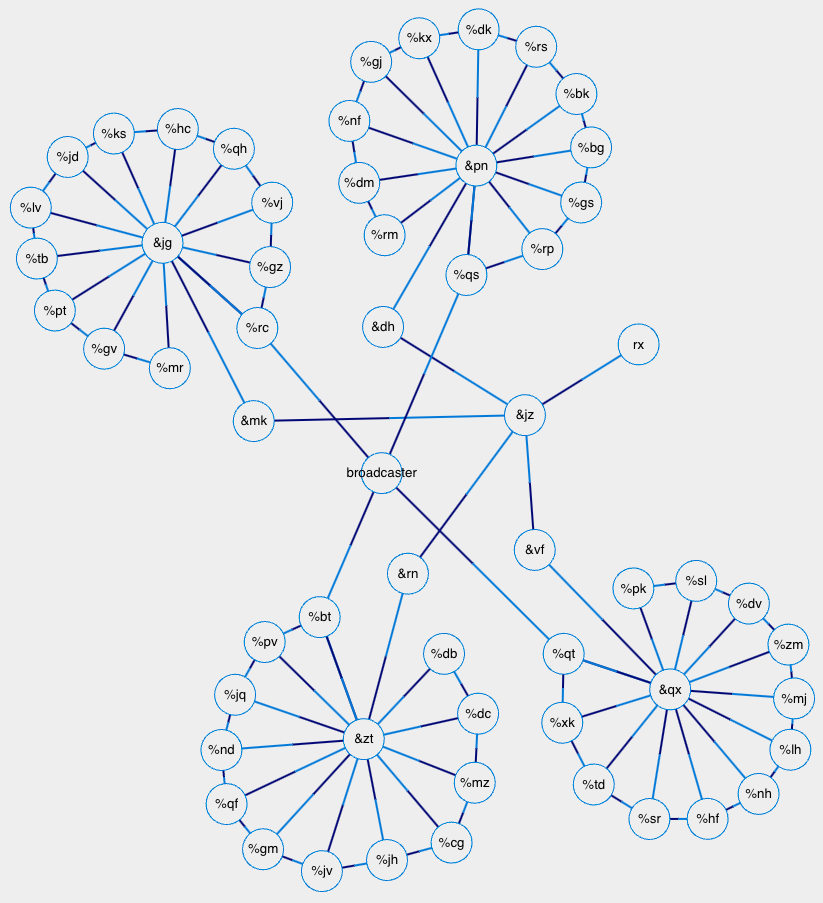
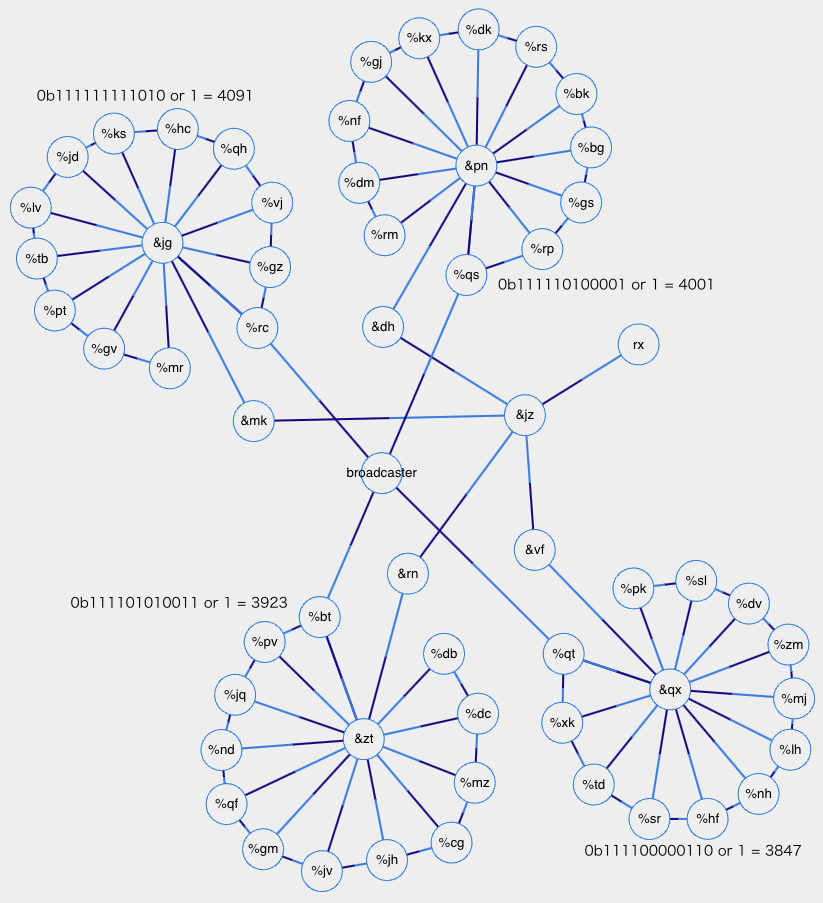
Day 20 part 2

diff --git a/2023/src/day20.rs b/2023/src/day20.rs
@@ -22,6 +22,14 @@ type NodeList = ArrayVec<Node, MAX_NODES>;
 type HashMap<K, V> =
     std::collections::HashMap<K, V, core::hash::BuildHasherDefault<ahash::AHasher>>;
 
+struct Machine {
+    lo_sent: u64,
+    hi_sent: u64,
+    broadcaster_idx: u8,
+    pulses: VecDeque<(u8, u8, bool)>,
+    nodes: NodeList,
+}
+
 pub fn parts_1_and_2(lines: &[&str], out: &mut String) {
     let mut node_idx_by_name = HashMap::with_capacity_and_hasher(
         lines.len(),
@@ -80,24 +88,44 @@ pub fn parts_1_and_2(lines: &[&str], out: &mut String) {
         }
     }
 
-    let mut lo_sent = 0_u64;
-    let mut hi_sent = 0_u64;
-    let mut pulses = VecDeque::new();
+    let mut machine = Machine::new(nodes, broadcaster_idx);
 
     for _ in 0..1000 {
-        pulses.clear();
-        pulses.push_back((0, broadcaster_idx, false));
+        machine.poke();
+    }
+    let result_0 = machine.lo_sent * machine.hi_sent;
 
-        while let Some((source_idx, idx, hi)) = pulses.pop_front() {
+    // Counter periods read from data/day20-graph.png
+    // Graph generated using day20-graph.html
+    let result_1 = lcm(3847, lcm(3923, lcm(4091, 4001)));
+
+    write!(out, "{}  {}", result_0, result_1).unwrap();
+}
+
+impl Machine {
+    fn new(nodes: NodeList, broadcaster_idx: u8) -> Self {
+        Self {
+            lo_sent: 0,
+            hi_sent: 0,
+            pulses: VecDeque::new(),
+            nodes,
+            broadcaster_idx,
+        }
+    }
+
+    fn poke(&mut self) {
+        self.pulses.push_back((0, self.broadcaster_idx, false));
+
+        while let Some((source_idx, idx, hi)) = self.pulses.pop_front() {
             if hi {
-                hi_sent += 1;
+                self.hi_sent += 1;
             } else {
-                lo_sent += 1;
+                self.lo_sent += 1;
             }
-            if idx as usize >= nodes.len() {
+            if idx as usize >= self.nodes.len() {
                 continue;
             }
-            let node = &mut nodes[idx as usize];
+            let node = &mut self.nodes[idx as usize];
 
             let mut ignore = false;
 
@@ -123,13 +151,22 @@ pub fn parts_1_and_2(lines: &[&str], out: &mut String) {
 
             if !ignore {
                 for dest in node.outputs.iter() {
-                    pulses.push_back((idx, *dest, outgoing));
+                    self.pulses.push_back((idx, *dest, outgoing));
                 }
             }
         }
     }
+}
 
-    let result_0 = lo_sent * hi_sent;
-    let result_1 = "";
-    write!(out, "{}  {}", result_0, result_1).unwrap();
+fn gcd(mut a: u64, mut b: u64) -> u64 {
+    while b != 0 {
+        let t = b;
+        b = a % b;
+        a = t;
+    }
+    a
+}
+
+fn lcm(a: u64, b: u64) -> u64 {
+    a / gcd(a, b) * b
 }

diff --git a/2023/src/main.rs b/2023/src/main.rs
@@ -15,6 +15,7 @@ mod day17;
 mod day18;
 mod day19;
 mod day2;
+mod day20;
 mod day3;
 mod day4;
 mod day5;
@@ -46,6 +47,7 @@ static DAY_FUNCS: &[fn(&[&str], &mut String)] = &[
     day17::parts_1_and_2,
     day18::parts_1_and_2,
     day19::parts_1_and_2,
+    day20::parts_1_and_2,
 ];
 
 fn main() {
